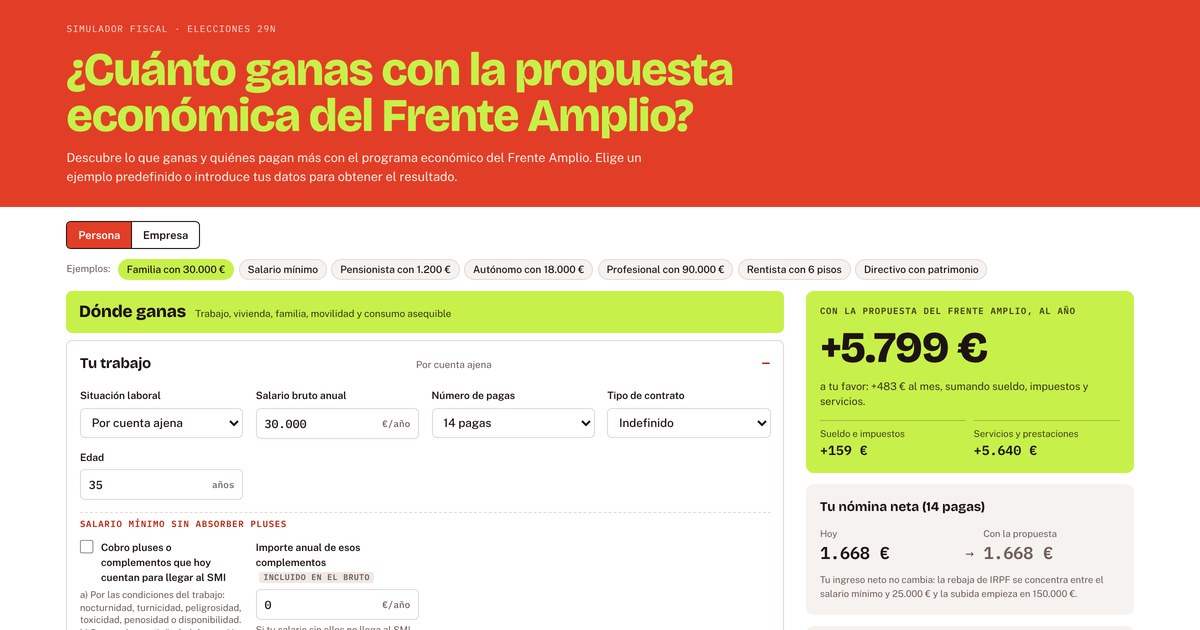
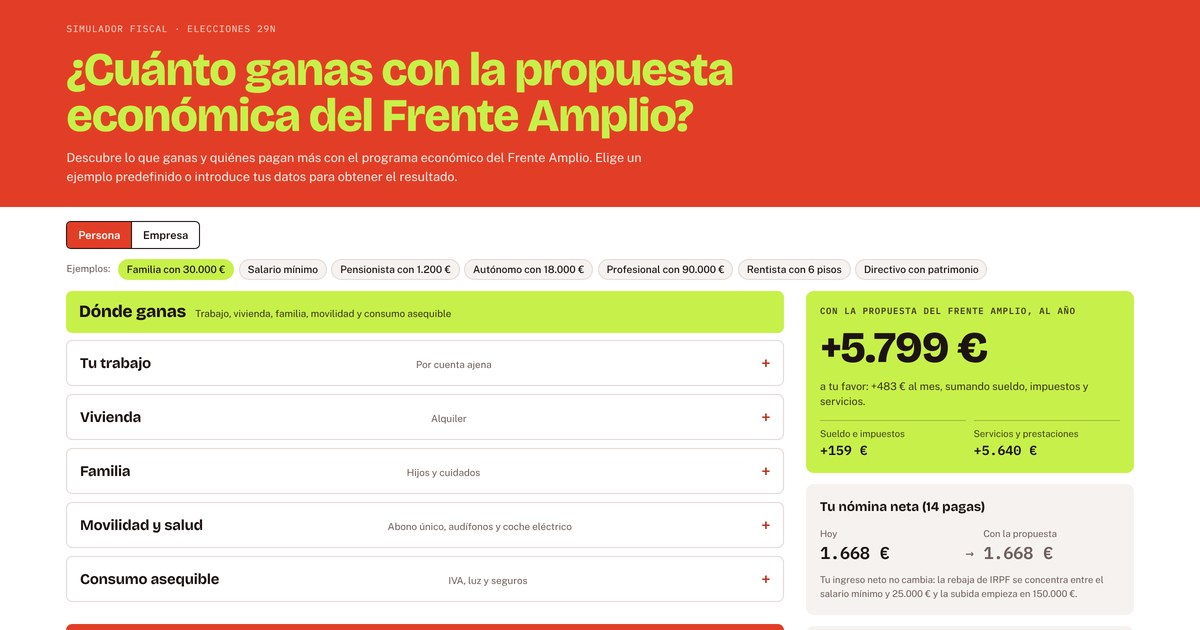
Add files via upload

Changed region(s): [[0.0308, 0.6032, 0.6783, 1.0], [0.3083, 0.8143, 0.4625, 0.8444], [0.37, 0.9048, 0.4317, 0.9349]]

diff --git a/index.html b/index.html
@@ -10,8 +10,8 @@
 <meta property="og:title" content="¿Cuánto ganas con la propuesta económica del Frente Amplio?">
 <meta property="og:description" content="Descubre lo que ganas y quiénes pagan más con el programa económico del Frente Amplio: IRPF, patrimonio, herencias, IVA, vivienda, jornada de 37,5 horas, prestación por crianza y más.">
 <meta property="og:site_name" content="Simulador fiscal del Frente Amplio">
-<meta property="og:image" content="https://segundogg.github.io/simulador-fiscal-fa/og-image.jpg">
-<meta property="og:image:secure_url" content="https://segundogg.github.io/simulador-fiscal-fa/og-image.jpg">
+<meta property="og:image" content="https://segundogg.github.io/simulador-fiscal-fa/og-image.jpg?v=3">
+<meta property="og:image:secure_url" content="https://segundogg.github.io/simulador-fiscal-fa/og-image.jpg?v=3">
 <meta property="og:image:type" content="image/jpeg">
 <meta property="og:image:alt" content="Simulador: ¿Cuánto ganas con la propuesta económica del Frente Amplio?">
 <meta property="og:image:width" content="1200">
@@ -20,9 +20,9 @@
 <meta name="twitter:card" content="summary_large_image">
 <meta name="twitter:title" content="¿Cuánto ganas con la propuesta económica del Frente Amplio?">
 <meta name="twitter:description" content="Descubre lo que ganas y quiénes pagan más con el programa económico del Frente Amplio: IRPF, patrimonio, herencias, IVA, vivienda, jornada de 37,5 horas, prestación por crianza y más.">
-<meta name="twitter:image" content="https://segundogg.github.io/simulador-fiscal-fa/og-image.jpg">
+<meta name="twitter:image" content="https://segundogg.github.io/simulador-fiscal-fa/og-image.jpg?v=3">
 <meta name="twitter:image:alt" content="Simulador: ¿Cuánto ganas con la propuesta económica del Frente Amplio?">
-<link rel="image_src" href="https://segundogg.github.io/simulador-fiscal-fa/og-image.jpg">
+<link rel="image_src" href="https://segundogg.github.io/simulador-fiscal-fa/og-image.jpg?v=3">
 <style>
 html{-webkit-text-size-adjust:100%}
 body{margin:0;font:14px/1.5 system-ui,-apple-system,"Segoe UI",sans-serif}
@@ -615,7 +615,7 @@ const S = (k, label, def, opts, o = {}) => ({ k, label, t: 'sel', def, opts, ...
 const SUB = (label) => ({ sub: label });
 
 const SEC_PERSONA_TRAB = {
-  asal: { id: 'trab', title: 'Tu trabajo', hint: 'Por cuenta ajena', open: true, fields: [
+  asal: { id: 'trab', title: 'Tu trabajo', hint: 'Por cuenta ajena', open: false, fields: [
     S('situacion', 'Situación laboral', 'asal', [['asal', 'Por cuenta ajena'], ['auto', 'Autónomo/a'], ['pension', 'Pensionista'], ['desempleo', 'Desempleado/a o sin empleo']]),
     N('bruto', 'Salario bruto anual', 30000, { u: '€/año' }),
     S('pagas', 'Número de pagas', '14', [['14', '14 pagas'], ['12', '12 pagas']]),
@@ -629,19 +629,19 @@ const SEC_PERSONA_TRAB = {
     C('parcial', 'Trabajo a tiempo parcial', false, { hint: 'Mantienes tus horas y el sueldo sube en proporción a la nueva jornada completa de 37,5 h.' }),
     N('hExtra', 'Horas extra que haces y no te pagan', 0, { u: 'h/semana', tag: 'Registro digital', hint: 'Con el registro digital de jornada se computan y se pagan como mínimo al valor de la hora ordinaria.' }),
   ]},
-  pension: { id: 'trab', title: 'Tu trabajo', hint: 'Pensionista', open: true, fields: [
+  pension: { id: 'trab', title: 'Tu trabajo', hint: 'Pensionista', open: false, fields: [
     S('situacion', 'Situación laboral', 'asal', [['asal', 'Por cuenta ajena'], ['auto', 'Autónomo/a'], ['pension', 'Pensionista'], ['desempleo', 'Desempleado/a o sin empleo']]),
     N('pensionBruta', 'Pensión bruta anual', 16800, { u: '€/año' }),
     S('pagasPen', 'Número de pagas', '14', [['14', '14 pagas'], ['12', '12 pagas']]),
     N('edad', 'Edad', 70, { u: 'años', hint: 'A partir de 65 y 75 años sube el mínimo personal del IRPF.' }),
   ]},
-  desempleo: { id: 'trab', title: 'Tu trabajo', hint: 'Desempleado/a o sin empleo', open: true, fields: [
+  desempleo: { id: 'trab', title: 'Tu trabajo', hint: 'Desempleado/a o sin empleo', open: false, fields: [
     S('situacion', 'Situación laboral', 'asal', [['asal', 'Por cuenta ajena'], ['auto', 'Autónomo/a'], ['pension', 'Pensionista'], ['desempleo', 'Desempleado/a o sin empleo']]),
     S('tipoDes', 'Qué cobras', 'subsidio', [['subsidio', 'Subsidio por desempleo'], ['contributiva', 'Prestación contributiva (paro)'], ['ninguna', 'Nada (vivo de rentas o sin ingresos)']]),
     N('desImporte', 'Importe mensual que cobras', 480, { u: '€/mes' }),
     N('edad', 'Edad', 35, { u: 'años' }),
   ]},
-  auto: { id: 'trab', title: 'Tu trabajo', hint: 'Autónomo/a', open: true, fields: [
+  auto: { id: 'trab', title: 'Tu trabajo', hint: 'Autónomo/a', open: false, fields: [
     S('situacion', 'Situación laboral', 'asal', [['asal', 'Por cuenta ajena'], ['auto', 'Autónomo/a'], ['pension', 'Pensionista'], ['desempleo', 'Desempleado/a o sin empleo']]),
     N('ingresos', 'Ingresos anuales (sin IVA)', 32000, { u: '€/año' }),
     N('gastos', 'Gastos deducibles de la actividad', 8000, { u: '€/año', hint: 'Sin contar tu cuota de autónomos, que se calcula aparte.' }),
@@ -651,7 +651,7 @@ const SEC_PERSONA_TRAB = {
   ]},
 };
 const SEC_COMUNES = [
-  { id: 'viv', title: 'Vivienda', hint: 'Alquiler', open: true, fields: [
+  { id: 'viv', title: 'Vivienda', hint: 'Alquiler', open: false, fields: [
     N('alquiler', 'Alquiler que pagas', 950, { u: '€/mes', hint: 'Pon 0 si tienes vivienda en propiedad.' }),
     C('tensionada', 'Vivo en una zona tensionada', true),
     N('hogarNeto', 'Ingresos netos del hogar', 2600, { u: '€/mes', hint: 'Para el tope del 30 %. Con 0 se usa tu sueldo neto.' }),
@@ -663,7 +663,7 @@ const SEC_COMUNES = [
     N('hipAmort', 'Lo que adelantas (amortizas) este año', 0, { u: '€', tag: 'Sin comisión', hint: 'Hasta 2029, en hipotecas a tipo variable, no se cobra comisión por amortizar antes de tiempo.' }),
     C('hipCambio', 'Este año paso mi hipoteca de variable a fijo', false, { tag: 'Sin comisión' }),
   ]},
-  { id: 'fam', title: 'Familia', hint: 'Hijos y cuidados', open: true, fields: [
+  { id: 'fam', title: 'Familia', hint: 'Hijos y cuidados', open: false, fields: [
     N('h03', 'Hijos/as de 0 a 3 años', 0, { u: 'nº', hint: 'Primer ciclo de infantil: aún no han cumplido 3 años.' }),
     N('h311', 'Hijos/as de 3 a 11 años', 1, { u: 'nº', hint: 'Infantil (segundo ciclo) y Primaria.' }),
     N('h1217', 'Hijos/as de 12 a 17 años', 0, { u: 'nº' }),
@@ -736,7 +736,7 @@ const SEC_COMUNES = [
   ]},
 ];
 const SEC_EMPRESA = [
-  { id: 'emp1', title: 'Cuentas de la empresa', hint: 'Impuesto sobre Sociedades', open: true, fields: [
+  { id: 'emp1', title: 'Cuentas de la empresa', hint: 'Impuesto sobre Sociedades', open: false, fields: [
     N('incn', 'Cifra de negocios', 2000000, { u: '€' }),
     N('rc', 'Resultado contable antes de impuestos', 240000, { u: '€' }),
     N('ajustes', 'Ajustes fiscales netos (exenciones, gastos no deducibles…)', 0, { u: '€' }),
@@ -749,7 +749,7 @@ const SEC_EMPRESA = [
     N('bin', 'Pérdidas de años anteriores que compensas este año', 0, { u: '€' }),
     N('binAntiguas', 'De ellas, generadas hace más de 4 años', 0, { u: '€', tag: 'Límite 4 años' }),
   ]},
-  { id: 'emp3', title: 'Sector', hint: 'Gravámenes específicos', open: true, fields: [
+  { id: 'emp3', title: 'Sector', hint: 'Gravámenes específicos', open: false, fields: [
     S('sector', 'Actividad', 'general', [['general', 'General'], ['banca', 'Banca'], ['energia', 'Energética o carburantes'], ['alimentacion', 'Producción o distribución de alimentos'], ['digital', 'Servicios digitales']]),
     N('margen25', 'Margen de explotación 2025 (energía)', 0, { u: '%', tag: 'Gravamen energético', hint: 'Resultado bruto de explotación sobre ventas. Para refino, mayoristas de combustibles, gasolineras y comercializadoras de luz y gas.' }),
     N('margen26', 'Margen de explotación 2026 (energía)', 0, { u: '%', hint: 'Tipo del gravamen: 0,3 × los puntos que suba el margen, sobre la cifra de negocios en España (sin actividades reguladas ni impuesto de hidrocarburos).' }),
